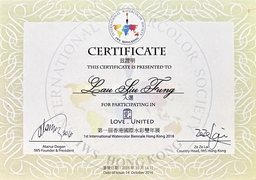
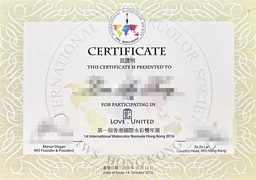
fix: mask the certificate, wire the highlights poster, correct five false records
CERTIFICATE (Q1). Direction §13.3 asks for 模糊／像素化 over the recipient name
and anything else that could be misused, before publication. The scan had been
live for a day unmasked.

Her name and both handwritten signatures are now pixelated at a 20px block —
pixelation rather than blur, because blurred print is partially recoverable. The
show, the venue, the issuing body and the date stay: they are public facts about
a public exhibition, and without them the scan evidences nothing.

The alt text mattered more than the pixels and was the half nobody had looked at:
it published her legal name, 入選, both signatories and the issue date as plain
indexable text. It is now a description of the document with no name in it.
"Lau Siu Fung" no longer appears anywhere in the shipped site. The unmasked
original stays in her assets folder, which is never committed.

HIGHLIGHTS POSTER (Q3). highlightPoster has been generated onto every course
record since the asset drop and read by nothing — the worst state to leave data
in, because the tracker counts it as done while the page shows none of it. It is
now the poster frame under the lazily-loaded Drive iframe, the same arrangement
the lesson stage uses. Before this the visitor saw whatever still Drive chose,
which on the beginner course was a black frame. Optional: a course she named no
poster for keeps the old behaviour, verified on little-house.

FIVE FALSE RECORDS (Q5). Statements only — the cosmetic tail is deliberately
left.
[…]

diff --git a/About.dc.html b/About.dc.html
@@ -310,7 +310,18 @@
                not treat this edit as a general reopening, and do not retune
                anything here that the change did not require. -->
 
-          <!-- This row was "Scan not supplied". The scan for it has now arrived:
+          <!-- MASKED. Direction §13.3 asks for 模糊／像素化 over the recipient name and
+               anything else that could be misused, before this goes public. The
+               published scan pixelates her name and both handwritten signatures at a
+               20px block — pixelation rather than blur, because blurred print is
+               partially recoverable. The show, the venue, the issuing body and the
+               date stay: they are public facts about a public exhibition, and without
+               them the scan evidences nothing. The alt text no longer carries her
+               legal name either — it was the more exposed half, being indexable text
+               rather than pixels. The unmasked original is in her assets folder,
+               which is never committed.
+
+               This row was "Scan not supplied". The scan for it has now arrived:
                Certificate3.jpg IS this honour's certificate — it reads
                「第一屆香港國際水彩雙年展 / 1st International Watercolor Biennale
                Hong Kong 2016」, issued by IWS Hong Kong. Her honours list calls the
@@ -320,7 +331,7 @@
                other. -->
           <figure class="bc-card bc-card--cert" data-year="2016" data-honour="Selected, 1st Hong Kong International Biennial Exhibition">
             <div class="cert-frame"><div class="cert-mat">
-              <img src="img/about/cert-iws-hk-2016.jpg" alt="Certificate presented to Lau Siu Fung, marked 入選, for participating in Love . United, the 1st International Watercolor Biennale Hong Kong 2016, signed by Atanur Dogan, IWS Founder and President, and Ze Ze Lai, Country Head, IWS Hong Kong; date of issue 14 October 2016"
+              <img src="img/about/cert-iws-hk-2016.jpg" alt="Certificate for participating in Love . United, the 1st International Watercolor Biennale Hong Kong 2016, issued by the International Watercolor Society Hong Kong on 14 October 2016. The recipient name and the two signatures are masked on the published scan."
                    srcset="img/about/cert-iws-hk-2016-128.jpg 128w, img/about/cert-iws-hk-2016-256.jpg 256w, img/about/cert-iws-hk-2016.jpg 1400w"
                    sizes="120px" width="1400" height="985" loading="lazy" decoding="async">
             </div></div>

diff --git a/course.dc.html b/course.dc.html
@@ -341,7 +341,23 @@ class Component extends DCLogic {
       const mins = pv.dur ? (pv.dur >= 60 ? Math.floor(pv.dur / 60) + 'm ' + (pv.dur % 60) + 's'
                                           : pv.dur + 's') : '';
       host.classList.add('has-video');
+      /* 2026-08-17: the client named a poster frame for this reel — the file the
+         importer lands as highlightPoster. Before this the visitor saw whatever
+         still Drive picked, which for the beginner course was a black frame.
+         Optional: a course she named no poster for keeps the old behaviour. */
+      const poster = c.highlightPoster
+        ? '<img class="co-hl-poster" src="' + esc(c.highlightPoster) + '"' +
+          (window.CAS_IMG_ATTRS ? '' : '') +
+          (c.highlightPosterMeta && c.highlightPosterMeta.srcset
+            ? ' srcset="' + esc(c.highlightPosterMeta.srcset) + '" sizes="(max-width: 900px) 92vw, 640px"'
+            : '') +
+          (c.highlightPosterMeta && c.highlightPosterMeta.w
+            ? ' width="' + c.highlightPosterMeta.w + '" height="' + c.highlightPosterMeta.h + '"'
+            : '') +
+          ' alt="" loading="lazy" decoding="async">'
+        : '';
       host.innerHTML =
+        poster +
         '<iframe class="gdrive-frame" src="' + esc(pv.url) + '" title="Course preview" ' +
         'allow="autoplay; fullscreen" allowfullscreen loading="lazy"></iframe>' +
         (mins ? '<span class="co-hl-dur">Preview \u00b7 ' + mins + '</span>' : '');

diff --git a/css/industrial-3.css b/css/industrial-3.css
@@ -535,6 +535,13 @@ details.acc-item[open] .acc-ico { transform: rotate(45deg); background: var(--co
 /* 7.1: the preview reel, once the client has supplied one. */
 .co-highlight.has-video { display: block; }
 .co-highlight .gdrive-frame { position: absolute; inset: 0; width: 100%; height: 100%; border: 0; background: #000; }
+/* The poster the client named for this reel, under the lazy iframe. Same
+   arrangement the lesson stage uses: the frame is on top and opaque once Drive
+   answers, so this is what the visitor looks at until then, instead of the black
+   rectangle Drive shows while it decides. z-index rather than DOM order because
+   the iframe is written after it and would otherwise win on stacking alone. */
+.co-highlight .co-hl-poster { position: absolute; inset: 0; width: 100%; height: 100%; object-fit: cover; z-index: 0; }
+.co-highlight .gdrive-frame { z-index: 1; }
 .co-hl-dur { position: absolute; right: 10px; bottom: 10px; z-index: 2; pointer-events: none;
   font-family: var(--font-cond); font-size: 12.5px; font-weight: 600; letter-spacing: var(--tracking-label); text-transform: uppercase;
   color: #f3ede1; background: rgba(20,17,13,.72); padding: 4px 10px; border-radius: var(--r-sharp); }

diff --git a/docs/agents/issue-tracker.md b/docs/agents/issue-tracker.md
@@ -455,7 +455,7 @@ arrival.
 
 Added by this audit:
 
-- [ ] Transparent brand artwork (SVG → transparent PNG → AI). All three marks are currently 0.0% transparent, which is why the light-theme invert rules are commented out and why the signature draws a white box. `tools/verify-round-2.py` fails automatically when transparency arrives, so this cannot be forgotten.
+- [x] Transparent brand artwork — **two of three delivered 2026-08-16**. `Logo.webp` (98.9% transparent) and `Logo2.webp` (96.8%) shipped as the nav and banner marks, and the light-theme treatment is live again. **The signature is the one still outstanding**: `Signature.jpg` is a JPEG and cannot carry alpha at all, so the footer mark keeps its white ground until she supplies a cut-out. `tools/verify-round-2.py` passes.
 - [ ] Student names, artwork titles and media for the Showcase wall (ticket 13)
 - [ ] Whether `little-house` and `urban-sketch` are free samplers or paid courses (ticket 15)
 - [ ] Real testimonials, or agreement to remove the section (ticket 11)
@@ -518,7 +518,7 @@ brand marks, and three instructional films. The per-area breakdown is in the tic
 
 ### 59 — index: imagery swap
 
-**Status:** blocked · **Blocked by:** 58, 53
+**Status:** done · f09acc0 · **Blocked by:** none — 58 closed 2026-08-16
 
 **What to build:** the home page carries the photographs the client chose rather than the
 stand-ins and empty slots it shows today: both hero images, the tools tile, the free-videos
@@ -538,7 +538,7 @@ orphaned in the review tool and will need re-pinning from the extension.
 
 ### 60 — course and lesson: imagery, per-lesson covers, syllabus thumbnails
 
-**Status:** blocked · **Blocked by:** 58
+**Status:** partly done · b3c0a24, f09acc0 · **Blocked by:** none — 58 closed 2026-08-16. The course covers, the intermediate strip and the highlights posters are in; what remains is per-lesson cover coverage for the intermediate course, which has one image per lesson rather than a cover and a still
 
 **What to build:** the intermediate course carries its own highlights cover and its five
 detail photographs instead of borrowing the beginner course's; the beginner highlights film
@@ -557,7 +557,7 @@ Review threads: Te67016, T66f863, Td20890, T4b80da, Ta27f4c.
 
 ### 61 — Lessons: the three tier photographs
 
-**Status:** blocked · **Blocked by:** 58
+**Status:** done · f09acc0 · **Blocked by:** none — 58 closed 2026-08-16
 
 **What to build:** the Wanderer, Apprentice and Fellow cards on the catalogue each carry
 their own photograph, and the free-trial band carries its own.
@@ -602,7 +602,7 @@ commented out and this ticket does not close it.
 
 ### 64 — Video wiring: instructional films, shorts, reference photos
 
-**Status:** blocked · **Blocked by:** 58
+**Status:** partly done · b3c0a24, f09acc0 · **Blocked by:** the client, for two items only — 58 closed 2026-08-16. The twelve YouTube links and the three course films are wired; outstanding are the Tram link she has not supplied and the Material reference photographs
 
 **What to build:** the three watercolour-tools films are wired into the beginner course's
 resources, the reference photographs are linked from the course materials, and the two
@@ -830,8 +830,11 @@ with no accessible name, no focus move-in, no trap, and no focus restore on clos
 
 **Verified 2026-08-17.** The bar, the drawer and the modal take `inert` + `aria-hidden` from `js/site-extras.js:156-169`, with
 the tabbability check at `:169`; inactive carousel slides do the same at `index.html:483-487`. All four
-lightboxes carry an accessible name and `inert`: `Gallery.dc.html:179`, `Showcase.dc.html:142`,
-`FreeVideos.dc.html:319`, `About.dc.html:506`.
+lightboxes carry an accessible name. Two of them also carry `inert` —
+`FreeVideos.dc.html` and `About.dc.html`. **Gallery and Showcase do not**: they are removed from the
+tree by `display: none` (`css/industrial-2.css:849`) instead, which is sufficient here but is a
+different mechanism, and the earlier wording of this line claimed all four used `inert`. Corrected
+2026-08-17 after a review found the claim was untrue.
 
 ### 08 — A real focus indicator, and stop clipping it
 
@@ -990,8 +993,11 @@ ticket 60).
 - [x] "Locked" is still conveyed in text, not by the image treatment alone
 - [x] The change is verified in the default not-purchased view, not only when signed in
 
-**Verified 2026-08-17.** No saturation or grayscale filter is applied to any thumbnail — the only
-`filter` left in the three stylesheets is `.btn.primary:hover` (`css/industrial-1.css:438`). "Locked"
+**Verified 2026-08-17.** No `grayscale` filter exists anywhere in the three stylesheets, and no
+saturation filter is applied to any thumbnail; the single `saturate` is on `.btn.primary:hover`
+(`css/industrial-1.css:438`). An earlier wording of this line said that was the ONLY `filter` left
+in the three stylesheets, which is untrue — there are 21, most of them `drop-shadow`. Corrected
+2026-08-17. "Locked"
 stays textual through the padlock's `role="img" aria-label="Locked"` (`course.dc.html:400`) and the
 `.syl-row.is-locked` treatment (`css/industrial-3.css:715-726`).
 

diff --git a/docs/03-design-system.md b/docs/03-design-system.md
@@ -235,10 +235,12 @@ surface, measured off the painted pixels, not calculated from the token.
 | Steel (`.chip.active`, `.fopt.active`, `.cart-btn`) | `--steel` gradient | `#2b2823` | 8.59:1 |
 | Copper (`.btn.primary`, `.btn-big`) | `--copper-metal` | `#f8ecd8` | see note below |
 | Marine — **client-named**, design direction §1.4.2 (`.rel-chip`, `.cmc.is-filter`, `.media-tag`, `.bc-tag`) | `--marine` `#598493` | `--marine-ink` `#0b1418` | 4.56:1 |
-| Rouge — **client-named**, 2026-08-08 (`.sale-ribbon`, `.sale-flag`) | `--rouge` `#a8463f` + `--rouge-metal` | `#fdf3ef` | 5.30:1 |
+| Rouge, flat — **client-named**, 2026-08-08 (`.sale-flag`) | `--rouge` `#a8463f` | `#fdf3ef` | 5.33:1 |
+| Rouge, machined — same colour under `--rouge-metal` (`.sale-ribbon`) | `#c05a51` → `#a8463f` → `#84332e` | `#fdf3ef` | **3.99:1 at the lightest stop**, 5.33 flat, 7.72 at the darkest — see the note |
 | Linen — **client-named** (`.cmc.is-fact`, `.btn.linen`, `.portrait-note`) | `--linen` `#d3c2bb` | `#2b2823` | 8.53:1 |
 | Mauve — **client-named** (`.teach-card`) | `#a498a6` | `#191419` | 6.60:1 |
-| Machined marine — the marine fills that carry a metal gradient and a rake (`.btn.marine`, `.btn-big.btn-marine`, `.blog-feature .bf-ribbon`) | `--marine-metal` under a 10% black rake | `--marine-ink-metal` `#04080a` | 4.78:1 |
+| Machined marine — the marine fills that carry a metal gradient and a rake (`.btn.marine`, `.btn-big.btn-marine`) | `--marine-metal` under a 10% black rake | `--marine-ink-metal` `#04080a` | 4.78:1 |
+| Blog ribbon (`.blog-feature .bf-ribbon`) — NOT a marine fill: its own `#6f9dad` under a sheen and `--leather-pores` | `#6f9dad` + sheen | `--marine-ink-metal` `#04080a` | 4.49:1 with `--marine-ink`, hence the darker ink |
 | Leather (`.blog-feature`) | `--leather` / `--leather-a` | the four `--leather-*` inks | 4.77–13.39:1 |
 | Certificate frame (`.cert-frame`) | `#8a6f3d` on `#f7f2e5` | — | decorative border |
 | Video chrome (`.player`, `.stage`, `.controls`, `.co-highlight.has-video`) | `#1b1814` | `#ede1d0` | letterbox black |
